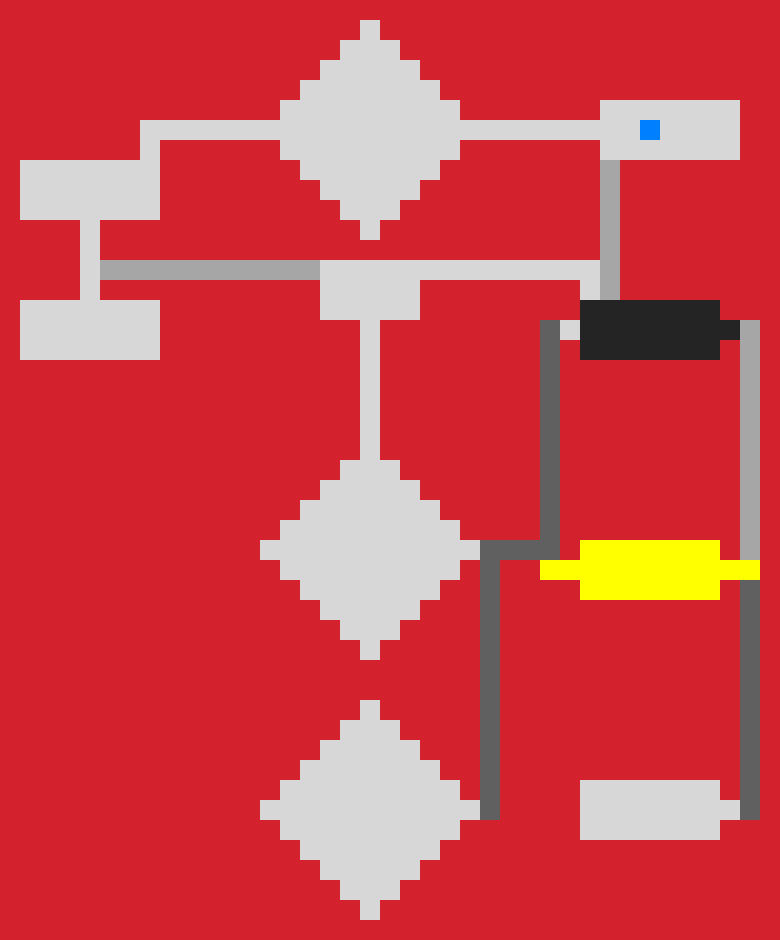
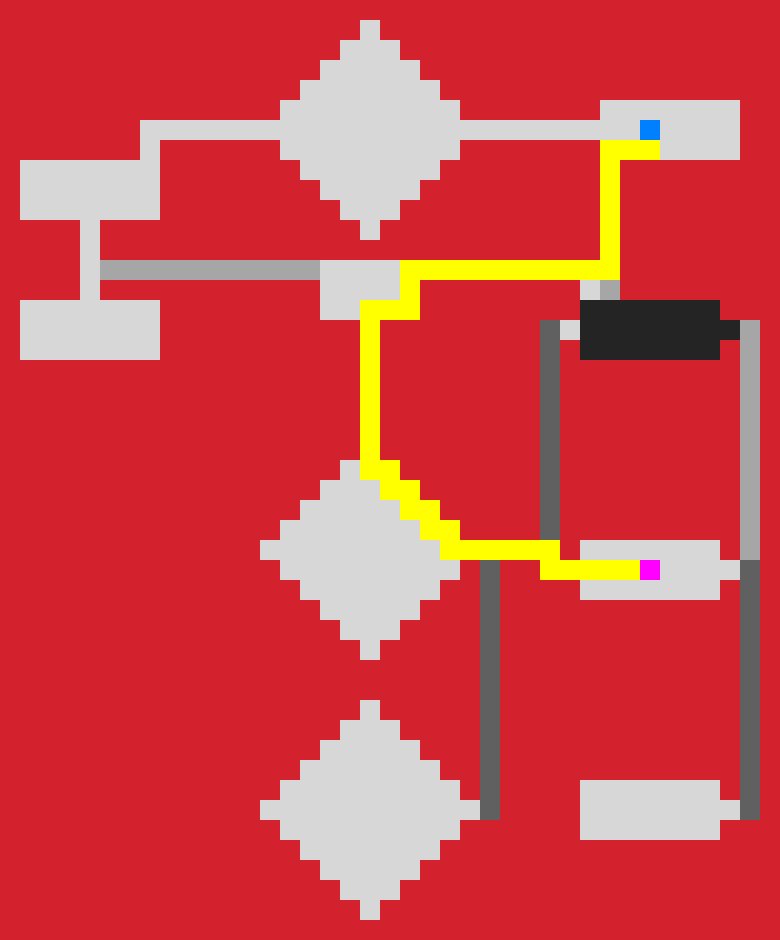
well, it runs

Changed region(s): [[0.4615, 0.1234, 0.9846, 0.6479]]

diff --git a/assignment_2/Astar.py b/assignment_2/Astar.py
@@ -1,85 +1,107 @@
-import queue
-from typing import Optional, Protocol, TypeVar
-from Map import Map_Obj 
-import heapq
+from Map import Map_Obj
 
 
-#Code is gotten from redblobgames.com
+class Node():
+    def __init__(self, parent, pos: list[int, int], g: int, h: int):
+        self.pos = pos
+        self.parent = parent
+        self.g = g #actual cost path from start node to current node
+        self.h = h #the actual cost path from the current node to the gole node
 
-Location = TypeVar('Location')
+    def get_pos(self):
+        return self.pos
 
-def man_dis(a: list, b: list) -> float: #FOR THE FIRST PART, should be simple
-        #manhatten distance
-        x1, y1 = a[0], a[1]
-        x2, y2 = b[0], b[1]
-        return abs(x1 - x2) + abs(y1-y2)
+    #actual cost path from start node to the goal node
+    def get_f(self): 
+        return self.g + self.h
 
 
 def a_star_search(map: Map_Obj):
-    # start_pos har to koordinater
     start = map.get_start_pos()
-    goal = map.get_end_goal_pos()
+    goal = map.get_goal_pos()
 
-    frontier = queue.PriorityQueue() #open list
-    frontier.put((0, start))
+    open = [] #nodes that have not yet been explored
+    closed = [] ##nodes that have been exlpored
 
-    came_from: dict[Location, Optional[Location]] = {}  
-    cost_so_far: dict[Location, float] = {}
-    visited = []
-    
-    # came_from[start[0], start[1]] = None 
-    # cost_so_far[start[0], start[1]] = 0
+    open.append(Node(None, start, 0, man_dis(start, goal)))
 
-    came_from[tuple(start)] = None 
-    cost_so_far[tuple(start)] = 0
-    
-    while not frontier.empty():
-        current = frontier.get()[1]
+    while open:
 
-        neighbour_pos = [
-            (current[0], current[1] - 1),
-            (current[0], current[1] + 1),
-            (current[0] - 1, current[1]),
-            (current[0] + 1, current[1])
-        ]
-        
-        if current == goal: #early exit
+        # Task 5 moving goal ticker
+        if map.get_goal_pos != map.get_end_goal_pos:
+            goal = map.tick()
+
+        # Using priority queue did not work, must sort queue manually
+        open.sort(key=lambda x: x.get_f())
+
+        # Getting the node with the lowest f
+        current = open.pop(0)
+
+        current_pos = current.get_pos()
+
+        # Early exit, check if goal is reached
+        if current_pos == goal:
             break
 
-        for next in neighbour_pos: #må endres, legge til i map?
-            if map.get_cell_value(next) < 0:
-                 break
-            #må sjekke om man har vært et sted
-            
-            new_cost = cost_so_far[tuple(current)] + map.get_cell_value(next) #map.cost(current, next) = map.get_cell_value #muffens
+        # Find neighbours
+        neighbour_nodes = [
+            [current_pos[0], current_pos[1] - 1],
+            [current_pos[0], current_pos[1] + 1],
+            [current_pos[0] - 1, current_pos[1]],
+            [current_pos[0] + 1, current_pos[1]]
+        ]
 
-            print(cost_so_far)
+        for next in neighbour_nodes:
+            # Check if neighbour can be traversed
+            if map.get_cell_value(next) > 0:
 
-            priority = new_cost + man_dis(next, goal)
-            if next not in cost_so_far or priority < cost_so_far[next] or next not in visited: #cost_so_far[next]
-                cost_so_far[next] = new_cost
-                frontier.put((priority,next))
-                came_from[next] = current
-                
-        visited.append(current)
-        map.set_cell_value(current, 5)
-         
-    map.show_map()
-    return came_from, cost_so_far
+                # Calculate the cost from the start to this position
+                g = current.g + map.get_cell_value(next)
+                #Create neighbour node based on new current g 
+                child = Node(current, next, g, man_dis(next, goal))
+
+                # Check if the possible child node is already in open or closed 
+                if next not in [item.get_pos() for item in open] and next not in [item.get_pos() for item in closed]:
+                    open.append(child)
+
+        closed.append(current)
+
+    #If this prints, too bad :(
+    if current_pos != goal:
+        print("No path to the goal!")
+    else:
+        # Trace back the path to find the fastest route
+        path = []
+        while current:
+            path.insert(0, current.get_pos())
+            current = current.parent
+        for next in path:
+            if next not in [start, goal]:
+                map.set_cell_value(next, 10)
+        map.show_map()
 
 
+
+def man_dis(a: list, b: list) -> float: #FOR THE FIRST PART, should be simple
+    #manhatten distance
+    x1, y1 = a[0], a[1]
+    x2, y2 = b[0], b[1]
+    return abs(x1 - x2) + abs(y1-y2)
+
+
+#To run the program
 if __name__ == "__main__":
-    task_1 = Map_Obj(task=1)
+    task_1 = Map_Obj(1)
     a_star_search(task_1)
-   
-    task_2 = Map_Obj(task=2)
+
+    task_2 = Map_Obj(2)
     a_star_search(task_2)
 
-    task_3 = Map_Obj(task=3)
+    task_3 = Map_Obj(3)
     a_star_search(task_3)
 
-    task_4 = Map_Obj(task=4)
+    task_4 = Map_Obj(4)
     a_star_search(task_4)
 
-    task_5 = Map_Obj(task=5)
+    task_5 = Map_Obj(5)
     a_star_search(task_5)

diff --git a/assignment_2/Astar1.py b/assignment_2/Astar1.py
@@ -1,0 +1,99 @@
+import queue
+from typing import Optional, Protocol, TypeVar
+from Map import Map_Obj 
+import heapq
+
+
+#Code is gotten from redblobgames.com
+
+Location = TypeVar('Location')
+
+def man_dis(a: list, b: list) -> float: #FOR THE FIRST PART, should be simple
+        #manhatten distance
+        x1, y1 = a[0], a[1]
+        x2, y2 = b[0], b[1]
+        return abs(x1 - x2) + abs(y1-y2)
+
+
+def a_star_search(map: Map_Obj):
+    # start_pos har to koordinater
+    start = map.get_start_pos()
+    goal = map.get_end_goal_pos()
+
+    open = queue.PriorityQueue() #open list
+    open.put((0, start))
+
+    came_from: dict[Location, Optional[Location]] = {}  
+    cost_so_far: dict[Location, float] = {}
+    visited = []
+    
+    # came_from[start[0], start[1]] = None 
+    # cost_so_far[start[0], start[1]] = 0
+
+    came_from[tuple(start)] = None 
+    cost_so_far[tuple(start)] = 0
+    
+    while not open.empty():
+        current = open.get()[1]
+        
+
+        neighbour_pos = [
+            (current[0], current[1] - 1),
+            (current[0], current[1] + 1),
+            (current[0] - 1, current[1]),
+            (current[0] + 1, current[1])
+        ]
+        
+        if current == goal: #early exit
+            break
+
+        for next in neighbour_pos: 
+
+            #må sjekke om noden kan besøkes
+            if map.get_cell_value(next) < 0:
+                 break
+            
+            new_cost = cost_so_far[tuple(current)] + map.get_cell_value(next) #map.cost(current, next) = map.get_cell_value #muffens
+
+            print(cost_so_far)
+
+            priority = new_cost + man_dis(next, goal)
+            if next not in cost_so_far or priority < cost_so_far[next] or next not in visited: #cost_so_far[next]
+                cost_so_far[next] = new_cost
+                open.put((priority,next))
+                came_from[next] = current
+                
+        visited.append(current)
+        #map.set_cell_value(current, 5)
+            
+    if current != goal:
+            print("No path to the goal!")
+    else:
+        # Trace back the path to find the fastest route
+        path = []
+        while current:
+            path.insert(0, current.get_pos())
+            current = current.parent
+        for next in path:
+            if next not in [start, goal]:
+                # Draw route onto map
+                map.set_cell_value(next, 5)
+        map.show_map()
+    return came_from, cost_so_far
+
+
+if __name__ == "__main__":
+    task_1 = Map_Obj(task=1)
+    a_star_search(task_1)
+   
+    task_2 = Map_Obj(task=2)
+    a_star_search(task_2)
+
+    task_3 = Map_Obj(task=3)
+    a_star_search(task_3)
+
+    task_4 = Map_Obj(task=4)
+    a_star_search(task_4)
+
+    task_5 = Map_Obj(task=5)
+    a_star_search(task_5)

diff --git a/assignment_2/newAstar.py b/assignment_2/newAstar.py
@@ -1,0 +1,88 @@
+import queue
+from Map import Map_Obj 
+
+
+def man_dis(a: list, b: list) -> float: #FOR THE FIRST PART, should be simple
+        #manhatten distance
+        x1, y1 = a[0], a[1]
+        x2, y2 = b[0], b[1]
+        return abs(x1 - x2) + abs(y1-y2)
+
+def a_star_search(map: Map_Obj):
+    start = map.get_start_pos()
+    goal = map.get_goal_pos()
+
+    g = 0 #actual cost path from start node to current node
+    h = 0 #the actual cost path from the current node to the gole node
+    f  = 0 #actual cost path from start node to the goal node
+    #f = g+h
+
+    open = [] #nodes that have not yet been explored
+    closed = [] #nodes that have been exlpored
+
+    open.append((0, start))
+    
+    while open:
+
+        # Task 5 moving goal ticker
+        if map.get_goal_pos != map.get_end_goal_pos:
+            goal = map.tick()
+        
+        #Sorting open to have lowest f-value on top
+        open = sorted(open)
+
+        current = open.pop(0) #fcurrent node is the node with the smalles f-value
+
+        if current[1] == goal: #early exit
+            return
+        
+        neighbour_pos = [
+            [current[0], current[1] - 1],
+            (current[0], current[1] + 1),
+            (current[0] - 1, current[1]),
+            (current[0] + 1, current[1])
+        ]
+        
+        for n in neighbour_pos: #undersøker naboene
+
+            if map.get_cell_value(n) > 0:
+                new_cost = g + map.get_cell_value(n) #ny kostnad av å gå til n
+                
+                h = new_cost + man_dis(n, goal)
+
+                if n not in closed or h < f or n not in open:
+                    f = new_cost
+                    open.append((f, n))
+
+        closed.append(current)
+        map.set_cell_value(current, 5)
+         
+
+    map.show_map()
+    return 
+
+
+if __name__ == "__main__":
+    task_1 = Map_Obj(task=1)
+    a_star_search(task_1)
+
+    task_2 = Map_Obj(task=2)
+    a_star_search(task_2)
+
+    task_3 = Map_Obj(task=3)
+    a_star_search(task_3)
+
+    task_4 = Map_Obj(task=4)
+    a_star_search(task_4)
+
+    task_5 = Map_Obj(task=5)
+    a_star_search(task_5)
+
+
+
+
+        
+
+      
+
+    
